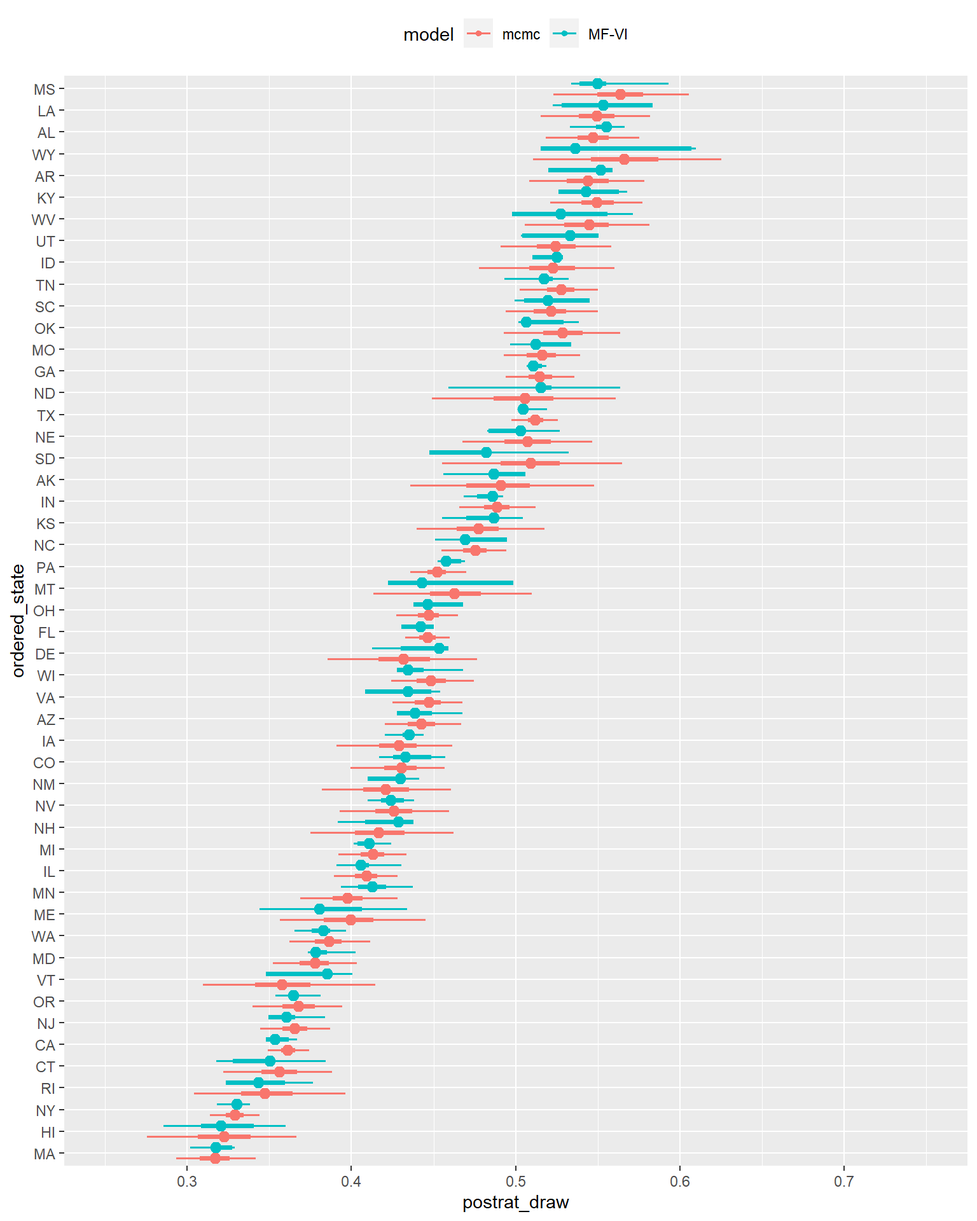
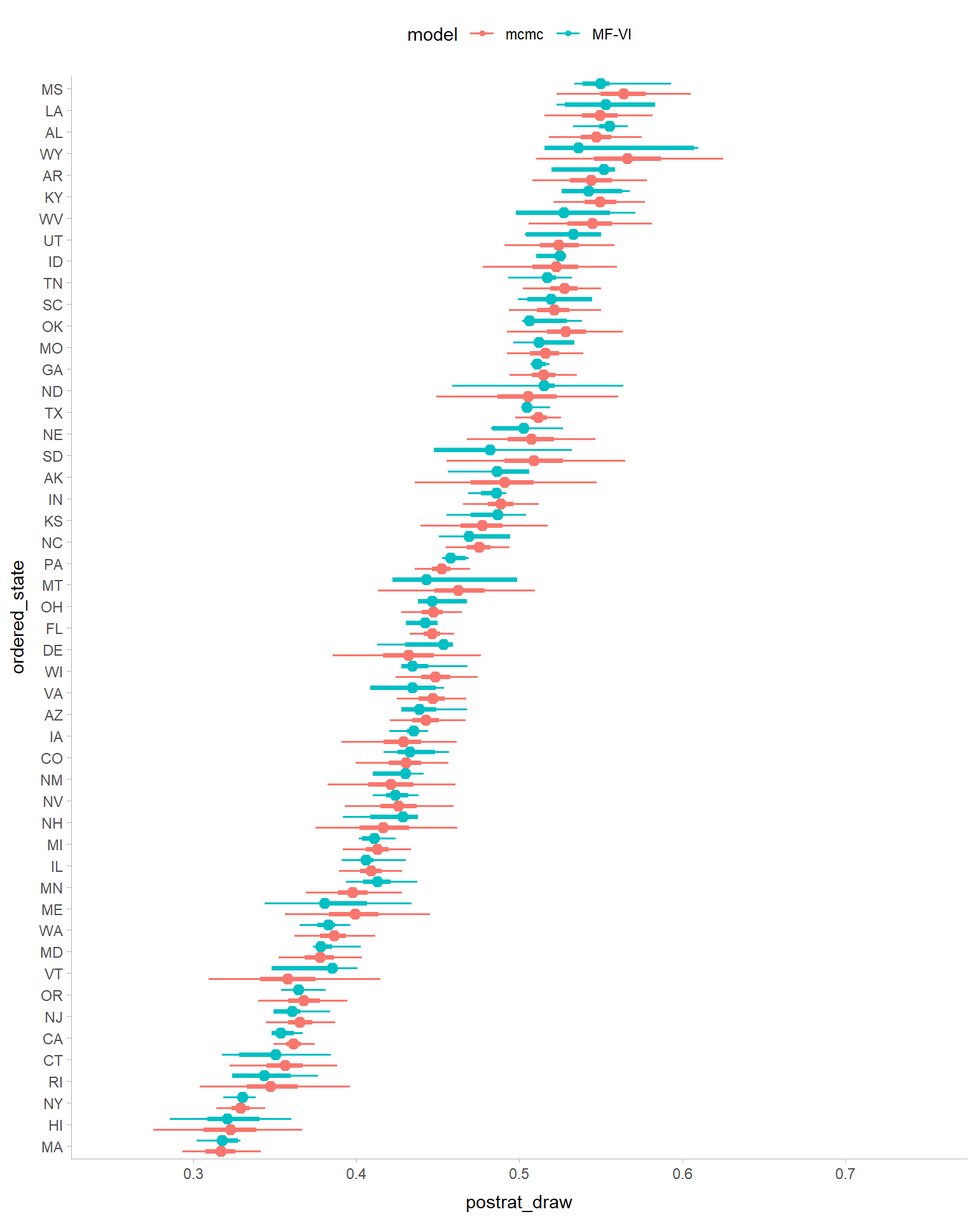
first draft

diff --git a/docs/posts/Variational MRP Pt2/Variational_MRP_pt2.html b/docs/posts/Variational MRP Pt2/Variational_MRP_pt2.html
@@ -145,10 +145,10 @@ code span.wa { color: #60a0b0; font-weight: bold; font-style: italic; } /* Warni
 
 <link rel="stylesheet" href="../../styles.css">
 <meta property="og:title" content="Andy Timm - Variational Inference for MRP with Reliable Posterior Distributions">
-<meta property="og:description" content="Part 2">
+<meta property="og:description" content="Part 2- The errors of our ways">
 <meta property="og:site-name" content="Andy Timm">
 <meta name="twitter:title" content="Andy Timm - Variational Inference for MRP with Reliable Posterior Distributions">
-<meta name="twitter:description" content="Part 2">
+<meta name="twitter:description" content="Part 2- The errors of our ways">
 <meta name="twitter:creator" content="@andy_timm">
 <meta name="twitter:site" content="@andy_timm">
 <meta name="twitter:card" content="summary_large_image">
@@ -197,7 +197,7 @@ code span.wa { color: #60a0b0; font-weight: bold; font-style: italic; } /* Warni
   <div class="quarto-title-banner page-columns page-full">
     <div class="quarto-title column-body">
       <h1 class="title">Variational Inference for MRP with Reliable Posterior Distributions</h1>
-            <p class="subtitle lead">Part 2</p>
+            <p class="subtitle lead">Part 2- The errors of our ways</p>
                                 <div class="quarto-categories">
                 <div class="quarto-category">MRP</div>
                 <div class="quarto-category">BART</div>
@@ -243,7 +243,7 @@ code span.wa { color: #60a0b0; font-weight: bold; font-style: italic; } /* Warni
   <li><a href="#lowering-the-tolerance" id="toc-lowering-the-tolerance" class="nav-link" data-scroll-target="#lowering-the-tolerance">Lowering the tolerance</a></li>
   <li><a href="#full-rank-approximation" id="toc-full-rank-approximation" class="nav-link" data-scroll-target="#full-rank-approximation">Full-Rank Approximation</a></li>
   </ul></li>
-  <li><a href="#where-to-from-here-why-is-it-like-this" id="toc-where-to-from-here-why-is-it-like-this" class="nav-link" data-scroll-target="#where-to-from-here-why-is-it-like-this">Where to from here? (Why is it like this!?)</a></li>
+  <li><a href="#where-to-from-here-why-is-it-like-this" id="toc-where-to-from-here-why-is-it-like-this" class="nav-link" data-scroll-target="#where-to-from-here-why-is-it-like-this">Where to from here? (Why is it like this?)</a></li>
   </ul>
 </nav>
     </div>
@@ -395,7 +395,7 @@ $ .epred     &lt;dbl&gt; 0.5771322, 0.5189677, 0.5483006, 0.5421404, 0.5417602, 
 <span id="cb5-3"><a href="#cb5-3" aria-hidden="true" tabindex="-1"></a>                        <span class="co"># this is the P in MRP</span></span>
 <span id="cb5-4"><a href="#cb5-4" aria-hidden="true" tabindex="-1"></a>                        <span class="fu">group_by</span>(state,.draw) <span class="sc">%&gt;%</span></span>
 <span id="cb5-5"><a href="#cb5-5" aria-hidden="true" tabindex="-1"></a>                        <span class="fu">summarize</span>(<span class="at">postrat_draw =</span> <span class="fu">sum</span>(.epred<span class="sc">*</span>(n<span class="sc">/</span><span class="fu">sum</span>(n)))) <span class="sc">%&gt;%</span></span>
-<span id="cb5-6"><a href="#cb5-6" aria-hidden="true" tabindex="-1"></a>                        <span class="fu">mutate</span>(<span class="at">model =</span> <span class="st">"mcmc"</span>)</span>
+<span id="cb5-6"><a href="#cb5-6" aria-hidden="true" tabindex="-1"></a>                        <span class="fu">mutate</span>(<span class="at">model =</span> <span class="st">"MCMC"</span>)</span>
 <span id="cb5-7"><a href="#cb5-7" aria-hidden="true" tabindex="-1"></a>mfvi_state_points <span class="ot">&lt;-</span> mfvi_state_level <span class="sc">%&gt;%</span> </span>
 <span id="cb5-8"><a href="#cb5-8" aria-hidden="true" tabindex="-1"></a>                        <span class="fu">group_by</span>(state,.draw) <span class="sc">%&gt;%</span></span>
 <span id="cb5-9"><a href="#cb5-9" aria-hidden="true" tabindex="-1"></a>                        <span class="fu">summarize</span>(<span class="at">postrat_draw =</span> <span class="fu">sum</span>(.epred<span class="sc">*</span>(n<span class="sc">/</span><span class="fu">sum</span>(n)))) <span class="sc">%&gt;%</span></span>
@@ -452,8 +452,8 @@ Chain 1: ------------------------------------------------------------
 Chain 1: 
 Chain 1: 
 Chain 1: 
-Chain 1: Gradient evaluation took 0.022 seconds
-Chain 1: 1000 transitions using 10 leapfrog steps per transition would take 220 seconds.
+Chain 1: Gradient evaluation took 0.025 seconds
+Chain 1: 1000 transitions using 10 leapfrog steps per transition would take 250 seconds.
 Chain 1: Adjust your expectations accordingly!
 Chain 1: 
 Chain 1: 
@@ -583,7 +583,7 @@ Otherwise consider using sampling instead.</code></pre>
 </div>
 <div class="sourceCode cell-code" id="cb10"><pre class="sourceCode r code-with-copy"><code class="sourceCode r"><span id="cb10-1"><a href="#cb10-1" aria-hidden="true" tabindex="-1"></a><span class="fu">toc</span>()</span></code><button title="Copy to Clipboard" class="code-copy-button"><i class="bi"></i></button></pre></div>
 <div class="cell-output cell-output-stdout">
-<pre><code>256 sec elapsed</code></pre>
+<pre><code>299.02 sec elapsed</code></pre>
 </div>
 <div class="sourceCode cell-code" id="cb12"><pre class="sourceCode r code-with-copy"><code class="sourceCode r"><span id="cb12-1"><a href="#cb12-1" aria-hidden="true" tabindex="-1"></a>lower_tol_draws <span class="ot">&lt;-</span> poststrat_df_60k <span class="sc">%&gt;%</span> <span class="fu">add_epred_draws</span>(fit_60k_1e8, <span class="at">ndraws =</span> <span class="dv">1000</span>)</span>
 <span id="cb12-2"><a href="#cb12-2" aria-hidden="true" tabindex="-1"></a></span>
@@ -628,53 +628,187 @@ Otherwise consider using sampling instead.</code></pre>
 <span id="cb13-7"><a href="#cb13-7" aria-hidden="true" tabindex="-1"></a>  <span class="at">prior =</span> <span class="fu">normal</span>(<span class="dv">0</span>, <span class="dv">1</span>, <span class="at">autoscale =</span> <span class="cn">TRUE</span>),</span>
 <span id="cb13-8"><a href="#cb13-8" aria-hidden="true" tabindex="-1"></a>  <span class="at">prior_covariance =</span> <span class="fu">decov</span>(<span class="at">scale =</span> <span class="fl">0.50</span>),</span>
 <span id="cb13-9"><a href="#cb13-9" aria-hidden="true" tabindex="-1"></a>  <span class="at">adapt_delta =</span> <span class="fl">0.99</span>,</span>
-<span id="cb13-10"><a href="#cb13-10" aria-hidden="true" tabindex="-1"></a>  <span class="at">refresh =</span> <span class="dv">0</span>,</span>
-<span id="cb13-11"><a href="#cb13-11" aria-hidden="true" tabindex="-1"></a>  <span class="at">tol_rel_obj =</span> <span class="fl">1e-8</span>,</span>
-<span id="cb13-12"><a href="#cb13-12" aria-hidden="true" tabindex="-1"></a>  <span class="co"># Printing the ELBO every 1k draws</span></span>
-<span id="cb13-13"><a href="#cb13-13" aria-hidden="true" tabindex="-1"></a>  <span class="at">refresh =</span> <span class="dv">1000</span>,</span>
-<span id="cb13-14"><a href="#cb13-14" aria-hidden="true" tabindex="-1"></a>  <span class="at">algorithm =</span> <span class="st">"fullrank"</span>,</span>
-<span id="cb13-15"><a href="#cb13-15" aria-hidden="true" tabindex="-1"></a>  <span class="at">QR =</span> <span class="cn">TRUE</span>,</span>
-<span id="cb13-16"><a href="#cb13-16" aria-hidden="true" tabindex="-1"></a>  <span class="at">seed =</span> <span class="dv">605</span>)</span></code><button title="Copy to Clipboard" class="code-copy-button"><i class="bi"></i></button></pre></div>
+<span id="cb13-10"><a href="#cb13-10" aria-hidden="true" tabindex="-1"></a>  <span class="at">tol_rel_obj =</span> <span class="fl">1e-8</span>,</span>
+<span id="cb13-11"><a href="#cb13-11" aria-hidden="true" tabindex="-1"></a>  <span class="co"># Printing the ELBO every 1k draws</span></span>
+<span id="cb13-12"><a href="#cb13-12" aria-hidden="true" tabindex="-1"></a>  <span class="at">refresh =</span> <span class="dv">1000</span>,</span>
+<span id="cb13-13"><a href="#cb13-13" aria-hidden="true" tabindex="-1"></a>  <span class="at">algorithm =</span> <span class="st">"fullrank"</span>,</span>
+<span id="cb13-14"><a href="#cb13-14" aria-hidden="true" tabindex="-1"></a>  <span class="at">QR =</span> <span class="cn">TRUE</span>,</span>
+<span id="cb13-15"><a href="#cb13-15" aria-hidden="true" tabindex="-1"></a>  <span class="at">seed =</span> <span class="dv">605</span>)</span></code><button title="Copy to Clipboard" class="code-copy-button"><i class="bi"></i></button></pre></div>
+<div class="cell-output cell-output-stdout">
+<pre><code>Chain 1: ------------------------------------------------------------
+Chain 1: EXPERIMENTAL ALGORITHM:
+Chain 1:   This procedure has not been thoroughly tested and may be unstable
+Chain 1:   or buggy. The interface is subject to change.
+Chain 1: ------------------------------------------------------------
+Chain 1: 
+Chain 1: 
+Chain 1: 
+Chain 1: Gradient evaluation took 0.018 seconds
+Chain 1: 1000 transitions using 10 leapfrog steps per transition would take 180 seconds.
+Chain 1: Adjust your expectations accordingly!
+Chain 1: 
+Chain 1: 
+Chain 1: Begin eta adaptation.
+Chain 1: Iteration:   1 / 250 [  0%]  (Adaptation)
+Chain 1: Iteration:  50 / 250 [ 20%]  (Adaptation)
+Chain 1: Iteration: 100 / 250 [ 40%]  (Adaptation)
+Chain 1: Iteration: 150 / 250 [ 60%]  (Adaptation)
+Chain 1: Iteration: 200 / 250 [ 80%]  (Adaptation)
+Chain 1: Iteration: 250 / 250 [100%]  (Adaptation)
+Chain 1: Success! Found best value [eta = 0.1].
+Chain 1: 
+Chain 1: Begin stochastic gradient ascent.
+Chain 1:   iter             ELBO   delta_ELBO_mean   delta_ELBO_med   notes 
+Chain 1:    100      -248586.032             1.000            1.000
+Chain 1:    200      -180460.369             0.689            1.000
+Chain 1:    300      -121675.221             0.620            0.483
+Chain 1:    400       -87431.017             0.563            0.483
+Chain 1:    500      -120999.829             0.506            0.392
+Chain 1:    600       -96768.296             0.463            0.392
+Chain 1:    700       -93851.607             0.402            0.378
+Chain 1:    800       -92494.273             0.353            0.378
+Chain 1:    900       -74378.556             0.341            0.277
+Chain 1:   1000       -77681.560             0.311            0.277
+Chain 1:   1100       -77465.866             0.211            0.250
+Chain 1:   1200       -68692.287             0.186            0.244
+Chain 1:   1300       -75140.633             0.147            0.128
+Chain 1:   1400       -49430.772             0.160            0.128
+Chain 1:   1500       -59011.994             0.148            0.128
+Chain 1:   1600       -57033.572             0.127            0.086
+Chain 1:   1700       -56133.855             0.125            0.086
+Chain 1:   1800       -46605.149             0.144            0.128
+Chain 1:   1900       -47895.964             0.122            0.086
+Chain 1:   2000       -44745.890             0.125            0.086
+Chain 1:   2100       -43472.467             0.128            0.086
+Chain 1:   2200       -43454.384             0.115            0.070
+Chain 1:   2300       -41781.249             0.110            0.040
+Chain 1:   2400       -42045.221             0.059            0.035
+Chain 1:   2500       -41381.652             0.044            0.029
+Chain 1:   2600       -40754.440             0.043            0.027
+Chain 1:   2700       -41108.136             0.042            0.027
+Chain 1:   2800       -40450.439             0.023            0.016
+Chain 1:   2900       -40423.015             0.020            0.016
+Chain 1:   3000       -40375.121             0.013            0.015
+Chain 1:   3100       -40227.022             0.011            0.009
+Chain 1:   3200       -40302.411             0.011            0.009
+Chain 1:   3300       -40352.339             0.007            0.006
+Chain 1:   3400       -40174.196             0.007            0.004
+Chain 1:   3500       -40089.973             0.006            0.004
+Chain 1:   3600       -40143.009             0.004            0.002
+Chain 1:   3700       -40123.486             0.003            0.002
+Chain 1:   3800       -40044.004             0.002            0.002
+Chain 1:   3900       -39955.515             0.002            0.002
+Chain 1:   4000       -40003.851             0.002            0.002
+Chain 1:   4100       -39948.544             0.002            0.002
+Chain 1:   4200       -40028.027             0.002            0.002
+Chain 1:   4300       -39907.006             0.002            0.002
+Chain 1:   4400       -39868.266             0.002            0.002
+Chain 1:   4500       -39938.386             0.002            0.002
+Chain 1:   4600       -39837.339             0.002            0.002
+Chain 1:   4700       -39852.349             0.002            0.002
+Chain 1:   4800       -39823.670             0.002            0.002
+Chain 1:   4900       -39809.797             0.001            0.001
+Chain 1:   5000       -39807.261             0.001            0.001
+Chain 1:   5100       -39806.402             0.001            0.001
+Chain 1:   5200       -39818.805             0.001            0.001
+Chain 1:   5300       -39797.428             0.001            0.001
+Chain 1:   5400       -39790.469             0.001            0.000
+Chain 1:   5500       -39785.797             0.001            0.000
+Chain 1:   5600       -39779.121             0.000            0.000
+Chain 1:   5700       -39780.314             0.000            0.000
+Chain 1:   5800       -39771.363             0.000            0.000
+Chain 1:   5900       -39770.673             0.000            0.000
+Chain 1:   6000       -39764.096             0.000            0.000
+Chain 1:   6100       -39764.173             0.000            0.000
+Chain 1:   6200       -39765.651             0.000            0.000
+Chain 1:   6300       -39756.809             0.000            0.000
+Chain 1:   6400       -39753.724             0.000            0.000
+Chain 1:   6500       -39754.753             0.000            0.000
+Chain 1:   6600       -39750.392             0.000            0.000
+Chain 1:   6700       -39753.067             0.000            0.000
+Chain 1:   6800       -39750.341             0.000            0.000
+Chain 1:   6900       -39745.696             0.000            0.000
+Chain 1:   7000       -39743.521             0.000            0.000
+Chain 1:   7100       -39739.157             0.000            0.000
+Chain 1:   7200       -39736.689             0.000            0.000
+Chain 1:   7300       -39743.472             0.000            0.000
+Chain 1:   7400       -39738.431             0.000            0.000
+Chain 1:   7500       -39740.789             0.000            0.000
+Chain 1:   7600       -39735.842             0.000            0.000
+Chain 1:   7700       -39733.493             0.000            0.000
+Chain 1:   7800       -39735.015             0.000            0.000
+Chain 1:   7900       -39736.429             0.000            0.000
+Chain 1:   8000       -39733.548             0.000            0.000
+Chain 1:   8100       -39732.722             0.000            0.000
+Chain 1:   8200       -39734.720             0.000            0.000
+Chain 1:   8300       -39732.932             0.000            0.000
+Chain 1:   8400       -39727.658             0.000            0.000
+Chain 1:   8500       -39734.522             0.000            0.000
+Chain 1:   8600       -39728.602             0.000            0.000
+Chain 1:   8700       -39724.690             0.000            0.000
+Chain 1:   8800       -39725.374             0.000            0.000
+Chain 1:   8900       -39731.450             0.000            0.000
+Chain 1:   9000       -39725.866             0.000            0.000
+Chain 1:   9100       -39728.639             0.000            0.000
+Chain 1:   9200       -39730.156             0.000            0.000
+Chain 1:   9300       -39729.036             0.000            0.000
+Chain 1:   9400       -39725.536             0.000            0.000
+Chain 1:   9500       -39727.031             0.000            0.000
+Chain 1:   9600       -39725.389             0.000            0.000
+Chain 1:   9700       -39727.947             0.000            0.000
+Chain 1:   9800       -39723.932             0.000            0.000
+Chain 1:   9900       -39723.173             0.000            0.000
+Chain 1:   10000       -39723.944             0.000            0.000
+Chain 1: Informational Message: The maximum number of iterations is reached! The algorithm may not have converged.
+Chain 1: This variational approximation is not guaranteed to be meaningful.
+Chain 1: 
+Chain 1: Drawing a sample of size 1000 from the approximate posterior... 
+Chain 1: COMPLETED.</code></pre>
+</div>
 <div class="cell-output cell-output-stderr">
 <pre><code>Warning: Pareto k diagnostic value is 2.95. Resampling is disabled. Decreasing
 tol_rel_obj may help if variational algorithm has terminated prematurely.
 Otherwise consider using sampling instead.</code></pre>
 </div>
-<div class="sourceCode cell-code" id="cb15"><pre class="sourceCode r code-with-copy"><code class="sourceCode r"><span id="cb15-1"><a href="#cb15-1" aria-hidden="true" tabindex="-1"></a><span class="fu">toc</span>()</span></code><button title="Copy to Clipboard" class="code-copy-button"><i class="bi"></i></button></pre></div>
+<div class="sourceCode cell-code" id="cb16"><pre class="sourceCode r code-with-copy"><code class="sourceCode r"><span id="cb16-1"><a href="#cb16-1" aria-hidden="true" tabindex="-1"></a><span class="fu">toc</span>()</span></code><button title="Copy to Clipboard" class="code-copy-button"><i class="bi"></i></button></pre></div>
 <div class="cell-output cell-output-stdout">
-<pre><code>357.28 sec elapsed</code></pre>
+<pre><code>318.86 sec elapsed</code></pre>
 </div>
-<div class="sourceCode cell-code" id="cb17"><pre class="sourceCode r code-with-copy"><code class="sourceCode r"><span id="cb17-1"><a href="#cb17-1" aria-hidden="true" tabindex="-1"></a>full_rank_draws <span class="ot">&lt;-</span> poststrat_df_60k <span class="sc">%&gt;%</span> <span class="fu">add_epred_draws</span>(fit_60k_fullrank,</span>
-<span id="cb17-2"><a href="#cb17-2" aria-hidden="true" tabindex="-1"></a>                                                        <span class="at">ndraws =</span> <span class="dv">1000</span>)</span>
-<span id="cb17-3"><a href="#cb17-3" aria-hidden="true" tabindex="-1"></a></span>
-<span id="cb17-4"><a href="#cb17-4" aria-hidden="true" tabindex="-1"></a>frvi_points <span class="ot">&lt;-</span> full_rank_draws <span class="sc">%&gt;%</span> </span>
-<span id="cb17-5"><a href="#cb17-5" aria-hidden="true" tabindex="-1"></a>                        <span class="fu">group_by</span>(state,.draw) <span class="sc">%&gt;%</span></span>
-<span id="cb17-6"><a href="#cb17-6" aria-hidden="true" tabindex="-1"></a>                        <span class="fu">summarize</span>(<span class="at">postrat_draw =</span> <span class="fu">sum</span>(.epred<span class="sc">*</span>(n<span class="sc">/</span><span class="fu">sum</span>(n)))) <span class="sc">%&gt;%</span></span>
-<span id="cb17-7"><a href="#cb17-7" aria-hidden="true" tabindex="-1"></a>                        <span class="fu">mutate</span>(<span class="at">model =</span> <span class="st">"FR-VI"</span>)</span>
-<span id="cb17-8"><a href="#cb17-8" aria-hidden="true" tabindex="-1"></a></span>
-<span id="cb17-9"><a href="#cb17-9" aria-hidden="true" tabindex="-1"></a>combined_points_w_frvi <span class="ot">&lt;-</span> combined_points_w_lower_tol <span class="sc">%&gt;%</span></span>
-<span id="cb17-10"><a href="#cb17-10" aria-hidden="true" tabindex="-1"></a>                      <span class="fu">bind_rows</span>(frvi_points) <span class="sc">%&gt;%</span></span>
-<span id="cb17-11"><a href="#cb17-11" aria-hidden="true" tabindex="-1"></a>                      <span class="fu">ungroup</span>()</span>
-<span id="cb17-12"><a href="#cb17-12" aria-hidden="true" tabindex="-1"></a></span>
-<span id="cb17-13"><a href="#cb17-13" aria-hidden="true" tabindex="-1"></a>combined_points_w_frvi <span class="sc">%&gt;%</span></span>
-<span id="cb17-14"><a href="#cb17-14" aria-hidden="true" tabindex="-1"></a>  <span class="fu">mutate</span>(<span class="at">ordered_state =</span> <span class="fu">fct_reorder</span>(combined_points_w_frvi<span class="sc">$</span>state,</span>
-<span id="cb17-15"><a href="#cb17-15" aria-hidden="true" tabindex="-1"></a>                                     combined_points_w_frvi<span class="sc">$</span>postrat_draw)) <span class="sc">%&gt;%</span></span>
-<span id="cb17-16"><a href="#cb17-16" aria-hidden="true" tabindex="-1"></a>  <span class="fu">ggplot</span>(<span class="fu">aes</span>(<span class="at">y =</span> ordered_state,</span>
-<span id="cb17-17"><a href="#cb17-17" aria-hidden="true" tabindex="-1"></a>             <span class="at">x =</span> postrat_draw,</span>
-<span id="cb17-18"><a href="#cb17-18" aria-hidden="true" tabindex="-1"></a>             <span class="at">color =</span> model)) <span class="sc">+</span></span>
-<span id="cb17-19"><a href="#cb17-19" aria-hidden="true" tabindex="-1"></a>     <span class="fu">stat_dots</span>(<span class="at">quantiles =</span> <span class="dv">100</span>) <span class="sc">+</span></span>
-<span id="cb17-20"><a href="#cb17-20" aria-hidden="true" tabindex="-1"></a>     <span class="fu">facet_wrap</span>(<span class="sc">~</span>model) <span class="sc">+</span></span>
-<span id="cb17-21"><a href="#cb17-21" aria-hidden="true" tabindex="-1"></a>     <span class="fu">theme</span>(<span class="at">legend.position=</span><span class="st">"none"</span>)</span></code><button title="Copy to Clipboard" class="code-copy-button"><i class="bi"></i></button></pre></div>
+<div class="sourceCode cell-code" id="cb18"><pre class="sourceCode r code-with-copy"><code class="sourceCode r"><span id="cb18-1"><a href="#cb18-1" aria-hidden="true" tabindex="-1"></a>full_rank_draws <span class="ot">&lt;-</span> poststrat_df_60k <span class="sc">%&gt;%</span> <span class="fu">add_epred_draws</span>(fit_60k_fullrank,</span>
+<span id="cb18-2"><a href="#cb18-2" aria-hidden="true" tabindex="-1"></a>                                                        <span class="at">ndraws =</span> <span class="dv">1000</span>)</span>
+<span id="cb18-3"><a href="#cb18-3" aria-hidden="true" tabindex="-1"></a></span>
+<span id="cb18-4"><a href="#cb18-4" aria-hidden="true" tabindex="-1"></a>frvi_points <span class="ot">&lt;-</span> full_rank_draws <span class="sc">%&gt;%</span> </span>
+<span id="cb18-5"><a href="#cb18-5" aria-hidden="true" tabindex="-1"></a>                        <span class="fu">group_by</span>(state,.draw) <span class="sc">%&gt;%</span></span>
+<span id="cb18-6"><a href="#cb18-6" aria-hidden="true" tabindex="-1"></a>                        <span class="fu">summarize</span>(<span class="at">postrat_draw =</span> <span class="fu">sum</span>(.epred<span class="sc">*</span>(n<span class="sc">/</span><span class="fu">sum</span>(n)))) <span class="sc">%&gt;%</span></span>
+<span id="cb18-7"><a href="#cb18-7" aria-hidden="true" tabindex="-1"></a>                        <span class="fu">mutate</span>(<span class="at">model =</span> <span class="st">"FR-VI"</span>)</span>
+<span id="cb18-8"><a href="#cb18-8" aria-hidden="true" tabindex="-1"></a></span>
+<span id="cb18-9"><a href="#cb18-9" aria-hidden="true" tabindex="-1"></a>combined_points_w_frvi <span class="ot">&lt;-</span> combined_points_w_lower_tol <span class="sc">%&gt;%</span></span>
+<span id="cb18-10"><a href="#cb18-10" aria-hidden="true" tabindex="-1"></a>                      <span class="fu">bind_rows</span>(frvi_points) <span class="sc">%&gt;%</span></span>
+<span id="cb18-11"><a href="#cb18-11" aria-hidden="true" tabindex="-1"></a>                      <span class="fu">ungroup</span>()</span>
+<span id="cb18-12"><a href="#cb18-12" aria-hidden="true" tabindex="-1"></a></span>
+<span id="cb18-13"><a href="#cb18-13" aria-hidden="true" tabindex="-1"></a>combined_points_w_frvi <span class="sc">%&gt;%</span></span>
+<span id="cb18-14"><a href="#cb18-14" aria-hidden="true" tabindex="-1"></a>  <span class="fu">mutate</span>(<span class="at">ordered_state =</span> <span class="fu">fct_reorder</span>(combined_points_w_frvi<span class="sc">$</span>state,</span>
+<span id="cb18-15"><a href="#cb18-15" aria-hidden="true" tabindex="-1"></a>                                     combined_points_w_frvi<span class="sc">$</span>postrat_draw)) <span class="sc">%&gt;%</span></span>
+<span id="cb18-16"><a href="#cb18-16" aria-hidden="true" tabindex="-1"></a>  <span class="fu">ggplot</span>(<span class="fu">aes</span>(<span class="at">y =</span> ordered_state,</span>
+<span id="cb18-17"><a href="#cb18-17" aria-hidden="true" tabindex="-1"></a>             <span class="at">x =</span> postrat_draw,</span>
+<span id="cb18-18"><a href="#cb18-18" aria-hidden="true" tabindex="-1"></a>             <span class="at">color =</span> model)) <span class="sc">+</span></span>
+<span id="cb18-19"><a href="#cb18-19" aria-hidden="true" tabindex="-1"></a>     <span class="fu">stat_dots</span>(<span class="at">quantiles =</span> <span class="dv">100</span>) <span class="sc">+</span></span>
+<span id="cb18-20"><a href="#cb18-20" aria-hidden="true" tabindex="-1"></a>     <span class="fu">facet_wrap</span>(<span class="sc">~</span>model) <span class="sc">+</span></span>
+<span id="cb18-21"><a href="#cb18-21" aria-hidden="true" tabindex="-1"></a>     <span class="fu">theme</span>(<span class="at">legend.position=</span><span class="st">"none"</span>)</span></code><button title="Copy to Clipboard" class="code-copy-button"><i class="bi"></i></button></pre></div>
 <div class="cell-output-display">
 <p><img src="Variational_MRP_pt2_files/figure-html/unnamed-chunk-7-1.png" class="img-fluid" width="768"></p>
 </div>
 </div>
 <p>The first thing to note here is that unlike the mean-field approximation, fitting this model required some tinkering to get it to fit. I ended up needing to set <code>QR = TRUE</code> (ie, use a QR decomposition) to get this to fit at all (unless I set the initialization to 0, at which point the posterior collapsed to nearly) a single point.</p>
-<p>Unfortunately, this version has a similar spiky posterior distribution. It might even be worse than the mean-field try. Again, it looks like</p>
+<p>Unfortunately, this version has a similar spiky posterior distribution. In terms of uncertainty, it’s clearly worse than the mean-field implementation . The ELBO starts from higher, spends some time actually improving, but also quickly reaches a plateau. It doesn’t seem like this is a way out either.</p>
 </section>
 </section>
 <section id="where-to-from-here-why-is-it-like-this" class="level1">
-<h1>Where to from here? (Why is it like this!?)</h1>
+<h1>Where to from here? (Why is it like this?)</h1>
+<p>We’ve seen that simple variational families like the mean-field and full-rank can approximately mirror the central tendencies of MCMC, but things fall apart as we attempt to consider uncertainty, either through simple credible intervals, or especially once we start to visualize the unrealistic, lumpy VI posterior distributions in their entirety.</p>
+<p>This isn’t something we can solve with more training time: each of these algorithms had reached the lowest ELBO they could well before we produced final draws. If I had to guess, I think we need a fundamentally more expressive class of variational family to make progress.</p>
+<p>While trying to fit models without digging too much into the theory of why VI approximations can be poor has been fun, it’s time to bring in some theory. In the next post, I’ll explore the literature on why the uncertainty behavior of VI can be so dubious. In the following one, I’ll illustrate some better diagnostics as well.</p>
+<p>The code for this post can be found <a href="https://github.com/andytimm/andytimm.github.io/blob/main/posts/Variational%20MRP%20Pt2/Variational_MRP_pt2.qmd">here</a>. Thanks for reading.</p>
 
 
 </section>
@@ -685,7 +819,7 @@ Otherwise consider using sampling instead.</code></pre>
 <ol>
 <li id="fn1"><p>Really, the worst type of wrong, completely unpredictable wrong. If you spend time staring to try to infer a causal pattern of which states we can’t estimate well, you’re likely just going to end up confused.<a href="#fnref1" class="footnote-back" role="doc-backlink">↩</a></p></li>
 <li id="fn2"><p>Some of these MFVI distributions are bad enough that you might reasonably wonder if some of the badness is just plotting weirdness. That was my intuition at first. Of course though, this is sufficient granularity to make the MCMC results look reasonable. But even if you zoom in on 1 or two states and add way more points, the improbably sharp spikes remain.<a href="#fnref2" class="footnote-back" role="doc-backlink">↩</a></p></li>
-<li id="fn3"><p>Phrase due to Richard McElreath. The magic of good visualizations like Kay et Al.’s is that makes it trivial to let pattern recognition go to work, and be able to go “oh, I don’t believe that”.<a href="#fnref3" class="footnote-back" role="doc-backlink">↩</a></p></li>
+<li id="fn3"><p>Phrase due to Richard McElreath. The magic of good visualizations like Kay et Al.’s is that makes it trivial to let pattern recognition go to work, and be able to go “oh, that looks wrong”.<a href="#fnref3" class="footnote-back" role="doc-backlink">↩</a></p></li>
 </ol>
 </section><section class="quarto-appendix-contents"><h2 class="anchored quarto-appendix-heading">Reuse</h2><div quarto-reuse="quarto-reuse" class="quarto-appendix-contents"><a rel="license" href="https://creativecommons.org/licenses/by/4.0/">https://creativecommons.org/licenses/by/4.0/</a></div></section><section class="quarto-appendix-contents"><h2 class="anchored quarto-appendix-heading">Citation</h2><div><div class="quarto-appendix-secondary-label">BibTeX citation:</div><pre class="sourceCode code-with-copy quarto-appendix-bibtex"><code class="sourceCode bibtex">@online{timm2022,
   author = {Andy Timm},
